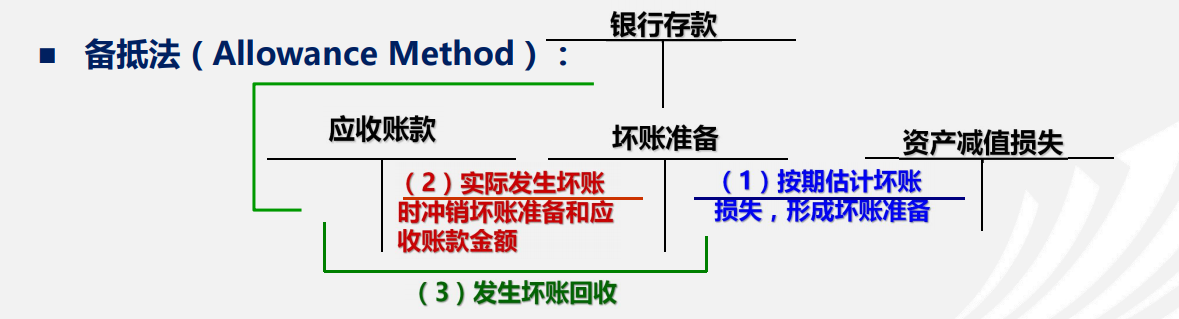
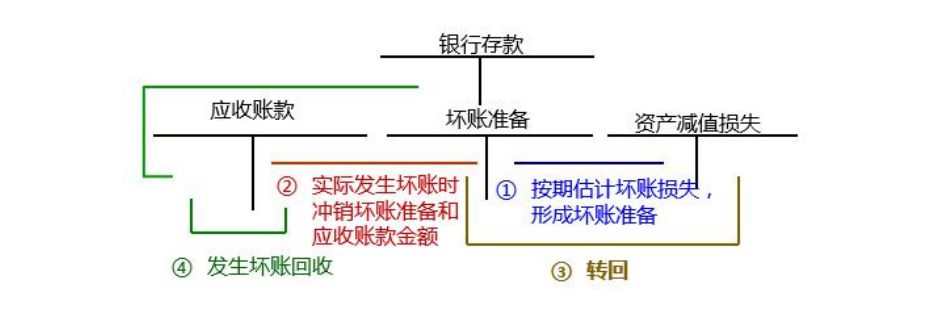
daily update

Changed region(s): [[0.0305, 0.0282, 0.9453, 0.9592], [0.1525, 0.5361, 0.183, 0.5643]]

diff --git a/CPA_Accounting.html b/CPA_Accounting.html
@@ -171,16 +171,13 @@
                                 <div class="col m12">
                                     <blockquote>应收账款等的备抵账户</blockquote>
                                     <img src="img/chapter0_坏账准备.png"></img>
-                                    <div class="col m6">
-                                        <p>借方：实际发生坏账及冲回多提坏账（减少）</p>
-                                        <p>贷方：计提坏账准备（增加），期末余额在贷方</p>
+                                    <div class="col m4">
+                                        <p>（1）期末计提<br>借：资产减值损失<br>&emsp;贷：坏账准备</p>
+                                        <p>（2）<b>注销/确认</b>坏账<br>借：坏账准备<br>&emsp;贷：应收账款</p>
                                     </div>
-                                    <div class="col m6">
-                                        <p>
-                                            发生坏账收回时：<br>
-                                            借：应收账款<br>&emsp;贷：坏账准备<br>
-                                            借：银行存款<br>&emsp;贷：应收账款
-                                        </p>
+                                    <div class="col m4"><p>（3）转回<br>借：坏账准备<br>&emsp;贷：资产减值损失</p></div>
+                                    <div class="col m4">
+                                        <p>（4）收回已注销坏账<br>借：应收账款<br>&emsp;贷：坏账准备<br>借：银行存款<br>&emsp;贷：应收账款</p>
                                         <p>坏账准备在贷方是因为在期末计提的时候，可以减少发生额</p>
                                     </div>
                                 </div>
@@ -516,7 +513,7 @@
                                         <tr><td>投资收益</td></tr>
                                         <tr><td><a class="modal-trigger" href="#Nonbusiness Income">营业外收入</a></td></tr>
                                         <tr><td><a class="modal-trigger" href="#Nonbusiness Expenditure">营业外支出</td></tr>
-                                        <tr><td>税金及附加</td></tr>
+                                        <tr><td><a class="modal-trigger" href="#Taxes and Surcharges">税金及附加</a></td></tr>
                                     </tbody>
                                 </table>
                             </div>
@@ -573,6 +570,21 @@
                                 <a href="#!" class="modal-action modal-close waves-effect waves-green btn-flat ">Close</a>
                             </div>
                         </div>
+
+                        <!-- 税金及附加 -->
+                        <div id="Taxes and Surcharges" class="modal modal-fixed-footer">
+                            <div class="modal-content">
+                                <div class="modal-header">
+                                    <h4>税金及附加</h4>
+                                </div>
+                                <p>
+                                    借：税金及附加<br>&emsp;贷：应交税费——应交城市维护建设税/教育费附加
+                                </p>
+                            </div>
+                            <div class="modal-footer">
+                                <a href="#!" class="modal-action modal-close waves-effect waves-green btn-flat ">Close</a>
+                            </div>
+                        </div>
                         <!-- 损益类 Modal Ends-->
                     </div>
                     <!-- end会计科目 -->
@@ -581,7 +593,7 @@
                     <div class="row">
                         <blockquote>一些其他概念</blockquote>
                         <div class="col m3">
-                            <a class="modal-trigger" href="#Inventory Profit and Losses">关于盘盈&amp;盘亏</a>
+                            <a class="modal-trigger btn" href="#Inventory Profit and Losses">关于盘盈&amp;盘亏</a>
                         </div>
                         <!-- 盘盈&盘亏 -->
                         <div id="Inventory Profit and Losses" class="modal modal-fixed-footer">
@@ -635,19 +647,19 @@
                                     <div class="col m12" style="margin-top:40px">
                                         <form>
                                             <div class="input-field col s6">
-                                                <input id="orig" type="text" class="validate" onkeyup="value=value.replace(/[^\d]/g,'') " ng-pattern="/[^a-zA-Z]/">
+                                                <input id="orig" type="text" class="validate">
                                                 <label>期初摊余成本</label>
                                             </div>
                                             <div class="input-field col s6">
-                                                <input id="rate" type="text" class="validate" onkeyup="value=value.replace(/[^\d]/g,'') " ng-pattern="/[^a-zA-Z]/">
+                                                <input id="rate" type="text" class="validate">
                                                 <label>实际利率 %</label>
                                             </div>
                                             <div class="input-field col s6">
-                                                <input id="interest" type="text" class="validate" onkeyup="value=value.replace(/[^\d]/g,'') " ng-pattern="/[^a-zA-Z]/">
+                                                <input id="interest" type="text" class="validate">
                                                 <label>应计利息</label>
                                             </div>
                                             <div class="input-field col s6">
-                                                <input id="year" type="text" class="validate" onkeyup="value=value.replace(/[^\d]/g,'') " ng-pattern="/[^a-zA-Z]/">
+                                                <input id="year" type="text" class="validate">
                                                 <label>第N年</label>
                                             </div>
                                         </form>
@@ -2894,6 +2906,13 @@
                                     </div>
                                 </div>
                             </div>
+
+                            <div class="col m6">
+                                <blockquote>合同变更</blockquote>
+                                <p>（一）作为单独合同：<br>&emsp;&emsp;增加了<b class="Tomato">可明确区分</b>的商品及合同价款，且新增合同价款反映了新增商品<b>单独售价</b>。</p>
+                                <p>（二）作为原合同终止及新合同订立：<br>&emsp;&emsp;不属于（一），且合同变更日已转让商品与为转让商品之间<b>可明确区分</b>。</p>
+                                <p>（三）作为原合同组成部分：<br>&emsp;&emsp;不属于（一），且合同变更日已转让商品与为转让商品之间<b>不可明确区分</b>。</p>
+                            </div>
                         </div>
                     </div>
 
@@ -3706,7 +3725,58 @@
                         </div>
                     </div>
                 </div>
-                <!-- 25.持有待售i流动资产、处置组和终止经营 -->
+
+                <!-- 25.持有待售流动资产、处置组和终止经营 -->
+                <div class="row chapter section scrollspy" id="Chapter25">
+                    <div class="row chapterTitle">
+                        <h3>第二十五章 持有待售流动资产、处置组和终止经营</h3>
+                    </div>
+                    <div class="col m6">
+                        <blockquote>分类的基本要求</blockquote>
+                        <p>
+                            　　企业主要通过<b>出售而非持续使用</b>一项非流动资产或处置组收回其账面价值的，应当将其划分为持有待售类别。处置组中可能包含企业的<b class="Tomato">任何资产和负债</b>。<br>
+                            　　非流动资产或处置组划分为持有待售类别，应当<b>同时满足</b>下列条件：<br>
+                            （1）在当前状况下即可<b>立即出售</b>；<br>（2）出售极可能发生，即企业已经就一项出售计划作出决议且获得确定的购买承诺，预计出售将在<b>一年内</b>完成。
+                        </p>
+                        <p>
+                            延长一年期限的<b>例外条款</b>：<br>
+                            （1）意外设定条件：买方或其他方意外设定导致出售延期的条件，企业针对这些条件已经及时采取行动，且预计能够自设定导致出售延期的条件起一年内顺利化解延期因素。<br>
+                            （2）发生罕见情况：因发生罕见情况，导致持有待售的非流动资产或处置组未能在一年内完成出售，企业在最初一年内已经针对这些新情况采取必要措施且<b>重新满足</b>了持有待售类别的划分条件。
+                        </p>
+                    </div>
+                    <div class="col m6">
+                        <blockquote>分类的具体应用</blockquote>
+                        <p>
+                            1.专为转售而取得的非流动资产或处置组<br>
+                            　　在取得日满足“预计出售将在<b>一年内完成</b>”的规定条件，且短期（通常为<b>3个月</b>）内很可能满足持有待售类别的其他条件，企业应当在取得日将其划分为持有待售类别。
+                        </p>
+                        <p>
+                            2.持有待售的长期股权投资<br>
+                            　　企业因出售对子公司的投资等原因导致其<b>丧失</b>对子公司控制权的，无论出售后企业是否保留部分权益性投资，应当在拟出售对子公司投资满足持有待售类别划分条件时，
+                            在母公司个别财务报表中将对子公司投资<b class="Tomato">整体划分</b>为持有待售类别，在合并财务报表中将子公司<b class="Tomato">所有资产和负债</b>划分为持有待售类别。
+                        </p>
+                        <p>
+                            3.拟结束使用而非出售的非流动资产或处置组<br>　　企业不应当将拟结束使用而非出售的非流动资产或处置组划分为持有待售类别。
+                        </p>
+                    </div>
+
+                    <div class="col m12">
+                        <blockquote>持有待售类别的计量</blockquote>
+                        <div class="col m6"><img src="img/chapter25_持有待售类别的计量.jpg"></img></div>
+                        <div class="col m6">
+                            <p>
+                                　　分类时，其账面价值高于公允价值减去出售费用后的净额的，应当将账面价值减记至公允价值减去出售费用后的净额，
+                                减记的金额确认为<b>资产减值损失</b>，计入当期损益，同时计提持有待售资产减值准备。
+                            </p>
+                            <p>
+                                　　分类后，后续资产负债表日持有待售的非流动资产公允价值减去出售费用后的净额增加的，以前减记的金额应当<b>予以恢复</b>，并在划分为持有待售类别后确认的资产减值损失金额内转回，
+                                转回金额计入当期损益。<b class="Tomato">划分为持有待售类别前确认的资产减值损失不得转回</b>。持有待售的<b>非流动资产不应计提折旧或摊销</b>。
+                            </p>
+                            <p>　　持有待售的处置组有商誉先冲商誉，已抵减的商誉账面价值不得转回。持有待售的处置组中<b>负债的利息和其他费用</b>应当继续予以确认。</p>
+                            <p>　　不再满足条件时，按照：（1）划分前账面价值按照本应确认的折旧/摊销、减值等进行调整后的金额；（2）可收回金额 <b class="Tomato">孰低</b>计量</p>
+                        </div>
+                    </div>
+                </div>
                 <!-- 26.企业合并 -->
                 <div class="row chapter section scrollspy" id="Chapter26">
                     <div class="row chapterTitle">
